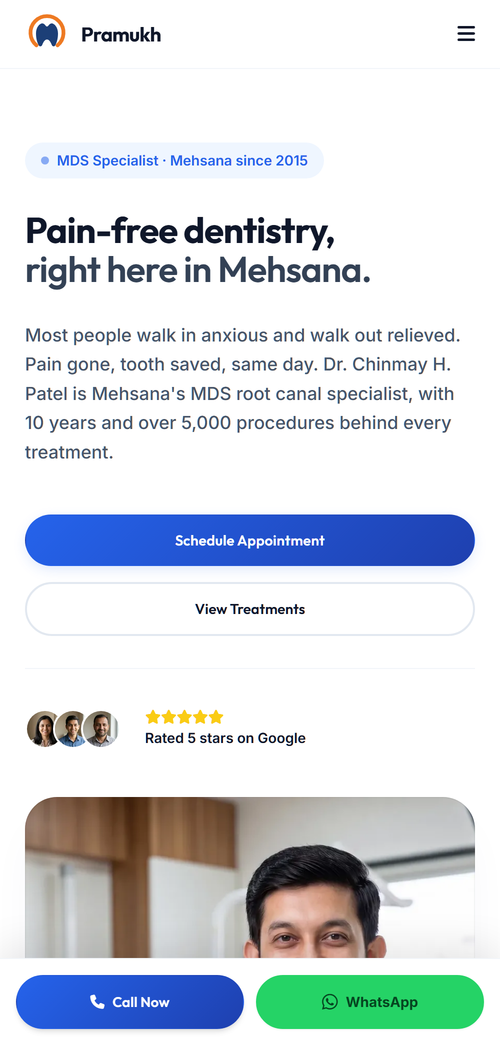
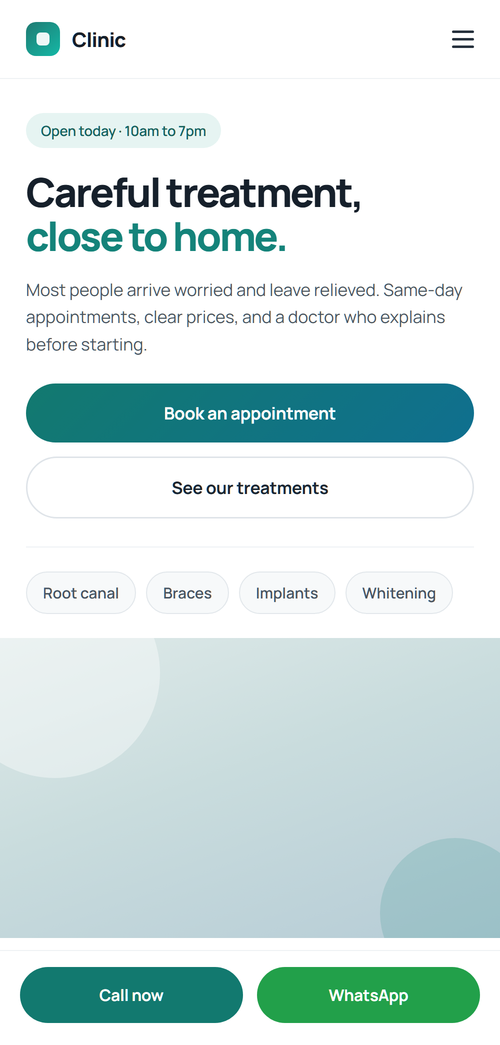
Put an illustrative clinic page on the hero phone, and label it
The hero briefly carried a live capture of a client's site. It made strong
proof, but it placed a real practice's page inside a staged photograph, and
a scene that never happened should not double as a record of one. The screen
now shows an invented clinic page: no practice name, no number, no address,
no photograph of anyone. It is built from a source file in the repo rather
than pulled from the web, so it can be edited and recaptured.

The caption carries an ILLUSTRATIVE chip and links to the work page, where
the real projects are. A sample interface on this site is never allowed to
sit unlabelled; the whole argument here is that we do not overstate things.

Also in this pass:

- On a phone the hero photograph sat after the four stats, two screens below
  the buttons. It now sits directly under them, where the visitor is
  deciding. On a wide screen nothing moves.
- Hero padding comes down 8px top and 12px bottom on every page. The
  homepage hero and header now take 692px of a 900px viewport, down from
  713. Still above the 72% target: the remaining height is the three-line
  headline at 184px, and shrinking that trades away the first thing anyone
  reads, so it is left alone and flagged instead.

Verified: astro check clean, price guard passes, nothing crosses the
viewport at 320px or 1440px, and the hero renders correctly at both.

diff --git a/scripts/assets/hero-screen-source.html b/scripts/assets/hero-screen-source.html
@@ -1,0 +1,136 @@
+<!doctype html>
+<html lang="en">
+<head>
+<meta charset="utf-8">
+<meta name="viewport" content="width=device-width, initial-scale=1">
+<title>Illustrative clinic page for the homepage hero</title>
+<!--
+  The page that appears on the phone in the homepage hero.
+
+  Deliberately not a real practice. It carries no clinic's name, address,
+  phone number or photograph, so it cannot be mistaken for a record of a
+  business that exists, and the hero caption labels it illustrative. What it
+  does show is the shape of the thing we sell: a clear promise, one obvious
+  booking action, and a call and WhatsApp bar always in reach.
+
+  Rendered at 500x1045 by scripts/capture-hero-screen.mjs, which is the
+  aspect of the handset's screen in the hero photograph.
+-->
+<style>
+  @import url('https://fonts.googleapis.com/css2?family=Manrope:wght@400;600;700;800&display=swap');
+  * { margin: 0; padding: 0; box-sizing: border-box; }
+  body {
+    font-family: Manrope, system-ui, sans-serif;
+    background: #ffffff;
+    color: #16202b;
+    width: 500px;
+    height: 1045px;
+    overflow: hidden;
+    position: relative;
+    -webkit-font-smoothing: antialiased;
+  }
+  header {
+    display: flex; align-items: center; gap: 12px;
+    padding: 22px 26px;
+    border-bottom: 1px solid #eef1f4;
+  }
+  .mark {
+    width: 34px; height: 34px; border-radius: 10px;
+    background: linear-gradient(140deg, #1f7a72, #14b8a6);
+    display: grid; place-items: center;
+  }
+  .mark span { display: block; width: 13px; height: 13px; border-radius: 4px; background: #fff; opacity: .92; }
+  .brand { font-weight: 800; font-size: 20px; letter-spacing: -.03em; }
+  .burger { margin-left: auto; display: grid; gap: 5px; }
+  .burger i { display: block; width: 22px; height: 2.5px; border-radius: 2px; background: #26313d; }
+
+  main { padding: 34px 26px 0; }
+  .pill {
+    display: inline-block; padding: 8px 15px; border-radius: 999px;
+    background: #e6f4f2; color: #14625c;
+    font-size: 14px; font-weight: 600; letter-spacing: -.01em;
+  }
+  h1 {
+    margin-top: 22px;
+    font-size: 40px; font-weight: 800; line-height: 1.1; letter-spacing: -.045em;
+  }
+  h1 em { font-style: normal; color: #14837a; }
+  .lede { margin-top: 18px; font-size: 17px; line-height: 1.6; color: #4a5661; }
+
+  .btn {
+    display: block; margin-top: 26px; padding: 18px;
+    border-radius: 999px; text-align: center;
+    font-size: 17px; font-weight: 700; letter-spacing: -.01em;
+  }
+  .btn.primary { background: linear-gradient(135deg, #12796f, #0f6f8f); color: #fff; }
+  .btn.ghost { margin-top: 14px; border: 1.5px solid #dfe4e9; color: #1b2732; }
+
+  /* Treatment chips rather than any kind of social proof. This page is
+     invented, so it must not carry a rating, a review or a patient count
+     that would read as a claim about a practice that does not exist. */
+  .strip {
+    display: flex; flex-wrap: wrap; gap: 10px;
+    margin-top: 28px; padding-top: 24px; border-top: 1px solid #eef1f4;
+  }
+  .strip span {
+    padding: 10px 16px; border-radius: 999px;
+    border: 1px solid #e2e7eb; background: #f7f9fa;
+    font-size: 15px; font-weight: 600; color: #48545f;
+  }
+
+  .shot {
+    margin: 24px -26px 0; height: 300px;
+    background: linear-gradient(160deg, #dfeae9 0%, #c9dcdd 45%, #b6ccd6 100%);
+    position: relative; overflow: hidden;
+  }
+  .shot::before, .shot::after { content: ''; position: absolute; border-radius: 50%; }
+  .shot::before { width: 210px; height: 210px; background: rgba(255,255,255,.4); left: -50px; top: -70px; }
+  .shot::after { width: 150px; height: 150px; background: rgba(20,131,122,.16); right: -30px; bottom: -50px; }
+
+  .bar {
+    position: absolute; left: 0; right: 0; bottom: 0;
+    display: grid; grid-template-columns: 1fr 1fr; gap: 14px;
+    padding: 16px 20px 22px;
+    background: #fff; border-top: 1px solid #eef1f4;
+  }
+  .bar a {
+    padding: 17px 0; border-radius: 999px; text-align: center;
+    font-size: 16px; font-weight: 700; color: #fff; letter-spacing: -.01em;
+  }
+  .bar .call { background: #12796f; }
+  .bar .wa { background: #22a04a; }
+</style>
+</head>
+<body>
+  <header>
+    <span class="mark"><span></span></span>
+    <span class="brand">Clinic</span>
+    <span class="burger" aria-hidden="true"><i></i><i></i><i></i></span>
+  </header>
+
+  <main>
+    <span class="pill">Open today · 10am to 7pm</span>
+    <h1>Careful treatment,<br><em>close to home.</em></h1>
+    <p class="lede">
+      Most people arrive worried and leave relieved. Same-day appointments,
+      clear prices, and a doctor who explains before starting.
+    </p>
+    <span class="btn primary">Book an appointment</span>
+    <span class="btn ghost">See our treatments</span>
+
+    <div class="strip">
+      <span>Root canal</span>
+      <span>Braces</span>
+      <span>Implants</span>
+      <span>Whitening</span>
+    </div>
+
+    <div class="shot" aria-hidden="true"></div>
+  </main>
+
+  <nav class="bar">
+    <a class="call">Call now</a>
+    <a class="wa">WhatsApp</a>
+  </nav>
+</body>
+</html>

diff --git a/src/styles/global.css b/src/styles/global.css
@@ -172,10 +172,10 @@
   --space-section-tight-sm: 48px;
   /* Deliberately small: the headline should start just under the menu, not a
      screen-and-a-bit below it. Was 96px, which cost 23% of the first screen. */
-  --space-hero-top: 40px;
-  --space-hero-top-sm: 28px;
-  --space-hero-bottom: 56px;
-  --space-hero-bottom-sm: 44px;
+  --space-hero-top: 32px;
+  --space-hero-top-sm: 24px;
+  --space-hero-bottom: 44px;
+  --space-hero-bottom-sm: 36px;
 
   /* One container width and gutter set, owned by .shell. */
   --shell-max: 1440px;

diff --git a/scripts/composite-hero-screen.py b/scripts/composite-hero-screen.py
@@ -1,18 +1,19 @@
 # -*- coding: utf-8 -*-
 """
-Put the real Pramukh Dental site on the phone in the hero.
+Put a clinic page on the phone in the hero.
 
-The hero's job is to prove the product in the first second. A blurred teal
-glow proves nothing; an actual clinic site being read by an actual patient
-proves the whole pitch, and it is a real screenshot rather than a render, so
-the page's own "open them on your own phone" line stays true.
+The hero's job is to show what we make in the first second. A blurred teal
+glow showed nothing. The screen now carries the illustrative clinic page in
+scripts/assets/hero-screen-source.html: no real practice's name, number or
+photograph, so a staged photograph never doubles as a record of something
+that happened. The caption on the page labels it, and links to real work.
 
 The screen is a quadrilateral in perspective, so the screenshot is warped onto
 the measured corners. The composite is masked to the pixels that are actually
 glowing screen, which means the fingers, the bezel and the highlight on the
 frame all survive untouched without any hand-drawn matte.
 
-Run from the repo root, after the client site changes or the plate is replaced:
+Run from the repo root, after editing the source page or replacing the plate:
     node scripts/capture-hero-screen.mjs   # writes the screen frame
     python scripts/composite-hero-screen.py
 
